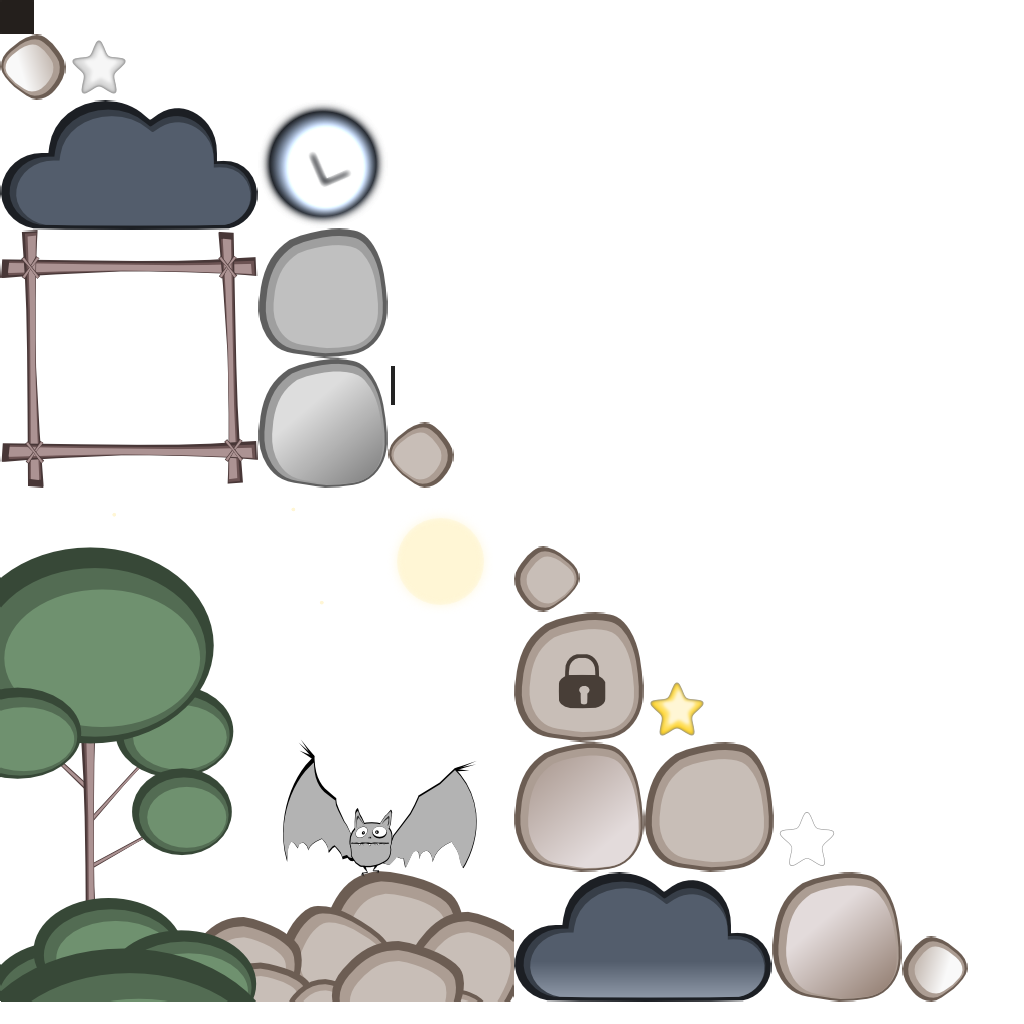
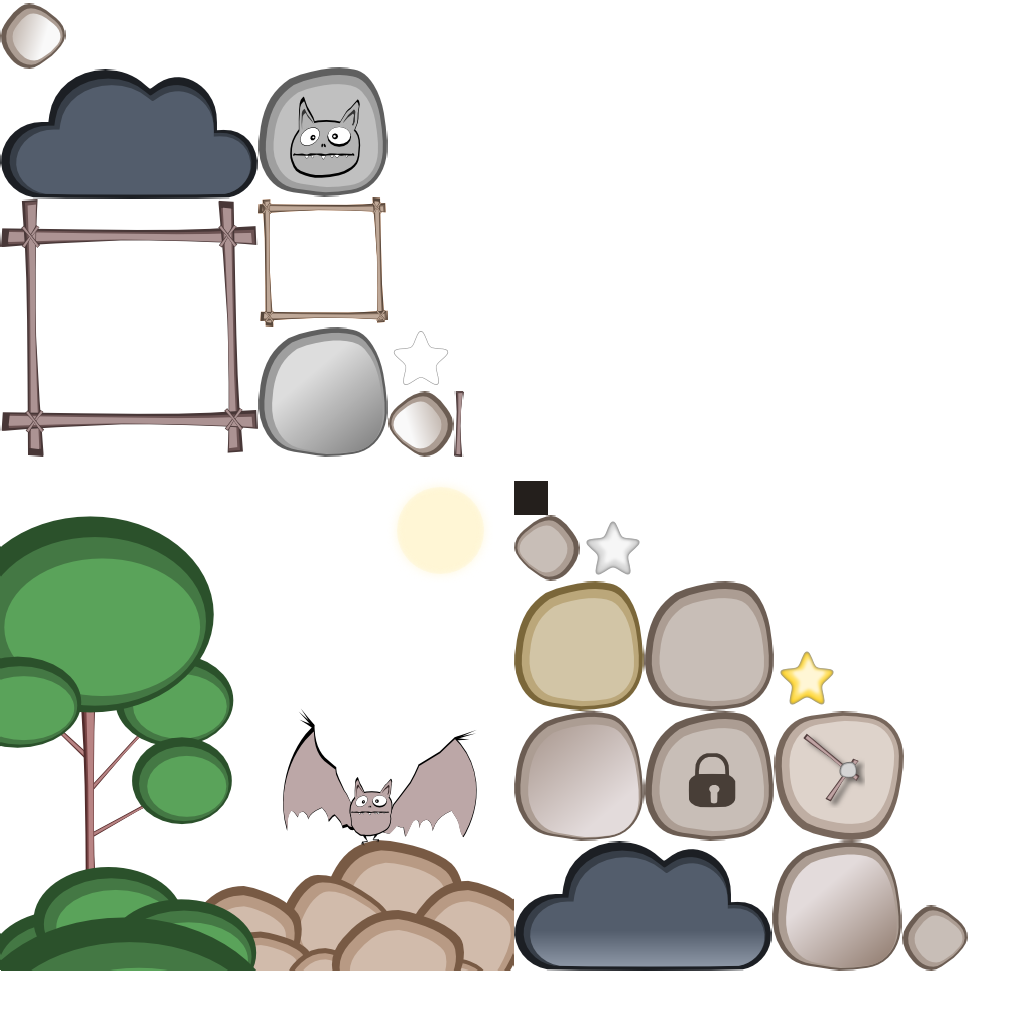
Skin and UI update

Changed region(s): [[0.0, 0.4688, 0.9688, 1.0], [0.0, 0.0, 0.4688, 0.5938]]

diff --git a/core/src/com/mpv/screens/stages/GameUIStage.java b/core/src/com/mpv/screens/stages/GameUIStage.java
@@ -3,10 +3,10 @@ package com.mpv.screens.stages;
 import com.badlogic.gdx.Gdx;
 import com.badlogic.gdx.graphics.g2d.SpriteBatch;
 import com.badlogic.gdx.scenes.scene2d.Stage;
+import com.badlogic.gdx.scenes.scene2d.ui.Button;
 import com.badlogic.gdx.scenes.scene2d.ui.Image;
 import com.badlogic.gdx.scenes.scene2d.ui.Label;
 import com.badlogic.gdx.scenes.scene2d.ui.Table;
-import com.badlogic.gdx.scenes.scene2d.ui.TextButton;
 import com.badlogic.gdx.scenes.scene2d.utils.ClickListener;
 import com.badlogic.gdx.utils.viewport.Viewport;
 import com.mpv.data.Assets;
@@ -37,7 +37,7 @@ public class GameUIStage extends Stage {
 	public GameUIStage(Viewport viewport,	 SpriteBatch batch) {
 		super(viewport, batch);
 		instance = this;
-		final TextButton bPlay = new TextButton("@", Assets.skin);
+		final Button bPlay = new Button(Assets.skin, "pause");
 		//
 		bPlay.addListener(new ClickListener() {
 			public void clicked(com.badlogic.gdx.scenes.scene2d.InputEvent event, float x, float y) {
@@ -55,11 +55,11 @@ public class GameUIStage extends Stage {
 		Table controlPanel = new Table();
 		controlPanel.setFillParent(true);
 		controlPanel.debug().bottom().left();
-		controlPanel.add(new Image(Assets.skin.getDrawable("timer"))).size(GVars.scrHeight/13);
+		controlPanel.add(new Image(Assets.skin.getDrawable("timer"))).size(GVars.scrHeight/9.7f);
 		controlPanel.add(labelTime).expand(true, false).height(GVars.scrHeight/13).width(getWidth()/4.3f).left();
 		//controlPanel.add(labelDebug).expand(true, false).size(GVars.scrHeight/13);		
 		//controlPanel.add(labelFPS).expand(true, false).size(GVars.scrHeight/13);
-		controlPanel.add(bPlay).size(GVars.scrHeight/13).right();
+		controlPanel.add(bPlay).size(GVars.scrHeight/9.7f).right();
 		//controlPanel.add(bExit).size(GVars.scrHeight/13);
 		this.addActor(controlPanel);
 	}

diff --git a/core/src/com/mpv/screens/stages/LevelStage.java b/core/src/com/mpv/screens/stages/LevelStage.java
@@ -42,8 +42,14 @@ public class LevelStage extends Stage {
 		
 		//mainTable.setBackground(Assets.skin.getDrawable("menu-bg"));
 		mainTable.setFillParent(true);
-		mainTable.add(new Image(Assets.skin, "button")).size(this.getWidth()/1.6f, this.getHeight()/6.4f).row();
-		mainTable.add(emptyWidget).height(buttonSize/2).row();
+		//left/right buttons
+		Table controlTable = new Table();
+			
+		controlTable.add(leftButton).size(buttonSize).left();
+		controlTable.add(emptyWidget).width(buttonSize);
+		controlTable.add(rightButton).size(buttonSize).right();
+		mainTable.add(controlTable).row();
+		mainTable.add(emptyWidget).height(buttonSize).row();
 		mainTable.add(buttonTable).row();
 		mainTable.add(emptyWidget).height(buttonSize/2).row();
 		//buttonTable.setFillParent(true);
@@ -60,12 +66,7 @@ public class LevelStage extends Stage {
 			buttonTable.add(emptyWidget).height(buttonSize/2).row();
 		}
 		updateButtons();
-		//left/right buttons
-		Table controlTable = new Table();
-		mainTable.add(controlTable);
-		controlTable.add(leftButton).size(buttonSize).left();
-		controlTable.add(emptyWidget).width(buttonSize);
-		controlTable.add(rightButton).size(buttonSize).right();
+		
 		
 		buttonTable.addListener(new ClickListener(){
 			public void clicked(com.badlogic.gdx.scenes.scene2d.InputEvent event, float x, float y) {

diff --git a/core/src/com/mpv/screens/ScoresScreen.java b/core/src/com/mpv/screens/ScoresScreen.java
@@ -38,11 +38,16 @@ public class ScoresScreen implements Screen {
         Table scoresTable = new Table();
         Table table1 = new Table();
         
+        /*Image image = new Image(Assets.skin.getDrawable("menu-screen"));
+		image.setSize(stage.getWidth(), stage.getWidth());
+		image.setPosition(0, 0);
+		stage.addActor(image);*/
+
         table1.setFillParent(true);
                
-        table1.add(scoresTable).row();
+        table1.add(scoresTable).width(stage.getWidth()/1.1f).row();
         //scoresTable.setFillParent(true);
-        scoresTable.setBackground(Assets.skin.getDrawable("none"));
+        scoresTable.setBackground(Assets.skin.getDrawable("window"));
 		final Button buttonExit = new Button(Assets.skin, "arrow-right");
 		final TextField textField = new TextField(Settings.name, Assets.skin);
 		textField.setMaxLength(10);
@@ -51,8 +56,7 @@ public class ScoresScreen implements Screen {
 		scoresTable.add(list).row();
         scoresTable.add(widget).height(itemSize).row();
         scoresTable.add(label1).height(itemSize/2).row();
-        scoresTable.add(widget).height(itemSize/2);
-        table1.add(widget).height(itemSize).row();
+        table1.add(widget).height(itemSize/4).row();
         table1.add(buttonExit).size(buttonSize);
         
         stage.addActor(table1);
